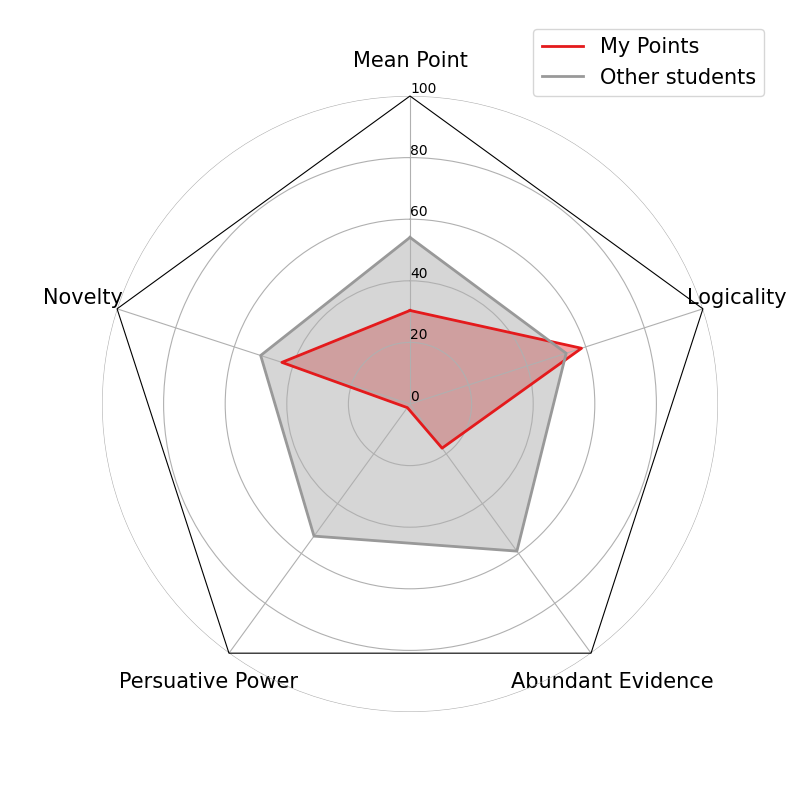
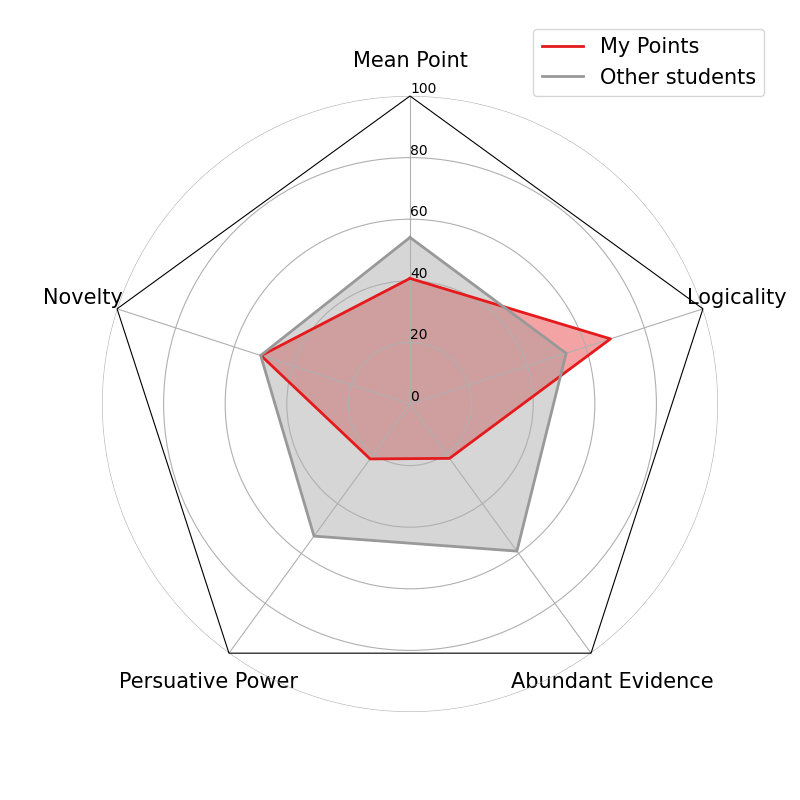
전체적으로 우수한 글이라는 문구 표시

Changed region(s): [[0.3125, 0.3438, 0.7812, 0.5938]]

diff --git a/templates/result.html b/templates/result.html
@@ -176,6 +176,11 @@
                 color: #392f31;
 
             }
+            .big-green
+            {
+                color: cornflowerblue;
+                font-size: 32px;
+            }
             .big-red
             {
                 color: #ff0000;
@@ -425,8 +430,12 @@
                         {{total_mean[0]}}점
                         <div class="evaluation-under">
                             당신의 에세이는 상위 <span class="persent">{{my_total_grade}}% </span>입니다. <br>
-                            <span class="big-red">{{big_small_element[0]}}</span>은 적절하지만 
-                            <span class="big-red">{{big_small_element[1]}}</span> 은 부족한 글입니다.
+                            {% if my_class[1] == True %}
+                                <span class="big-green">전체적으로 우수한 글이네요!!</span>
+                            {% else %}
+                                <span class="big-red">{{big_small_element[0]}}</span>은 적절하지만 
+                                <span class="big-red">{{big_small_element[1]}}</span> 은 부족한 글입니다.
+                            {% endif %}
                             
                             <!--
                             {% if my_total_grade < 36 %}

diff --git a/app.py b/app.py
@@ -9,7 +9,7 @@ import pic
 app = Flask(__name__)
 
 # 모델 불러오기
-config_ = 'models/logical_finished_chunk_model.bin1/config.json'    # config는 모두 같다.
+config_ = 'models/chunk_model.bin10/config.json'    # config는 모두 같다.
 
 chunk_model_path = 'models/chunk_model.bin10'; word_doc_model_path = 'models/word_doc_model.bin10' 
 logical_model = DocumentBertScoringModel(chunk_model_path=chunk_model_path, word_doc_model_path=word_doc_model_path, config=config_)
@@ -130,7 +130,7 @@ def result():
            
         # 그래프 그리고 저장하기
         
-        font_size = 22
+        font_size = 24
         
         pic.graph(mode='logical', essay_point=my_point_list[0], mean=logical_mean, font_size=font_size)
         pic.graph(mode='reason', essay_point=my_point_list[1], mean=reason_mean, font_size=font_size)
